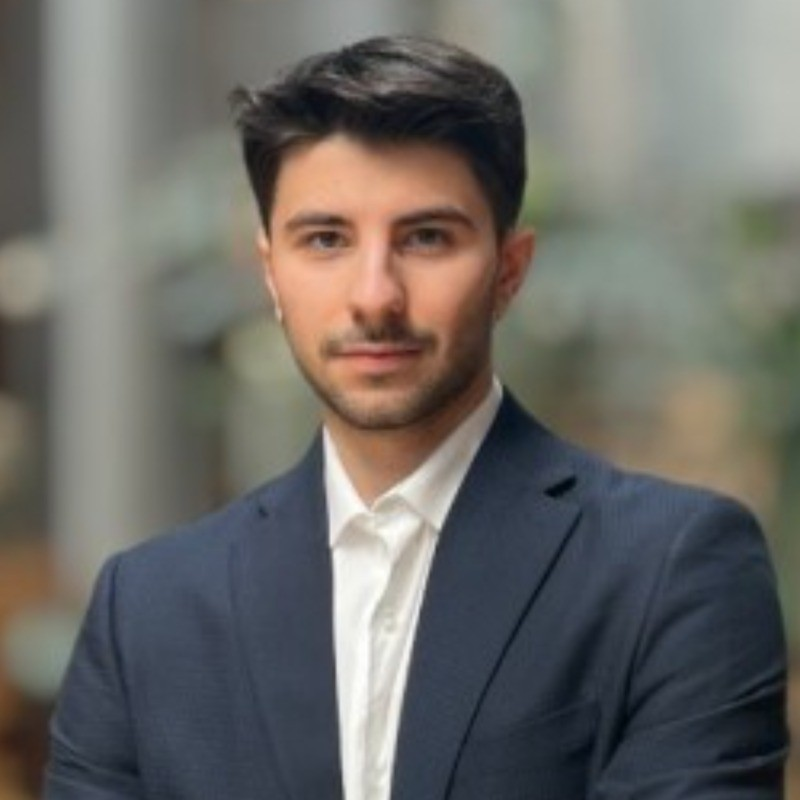
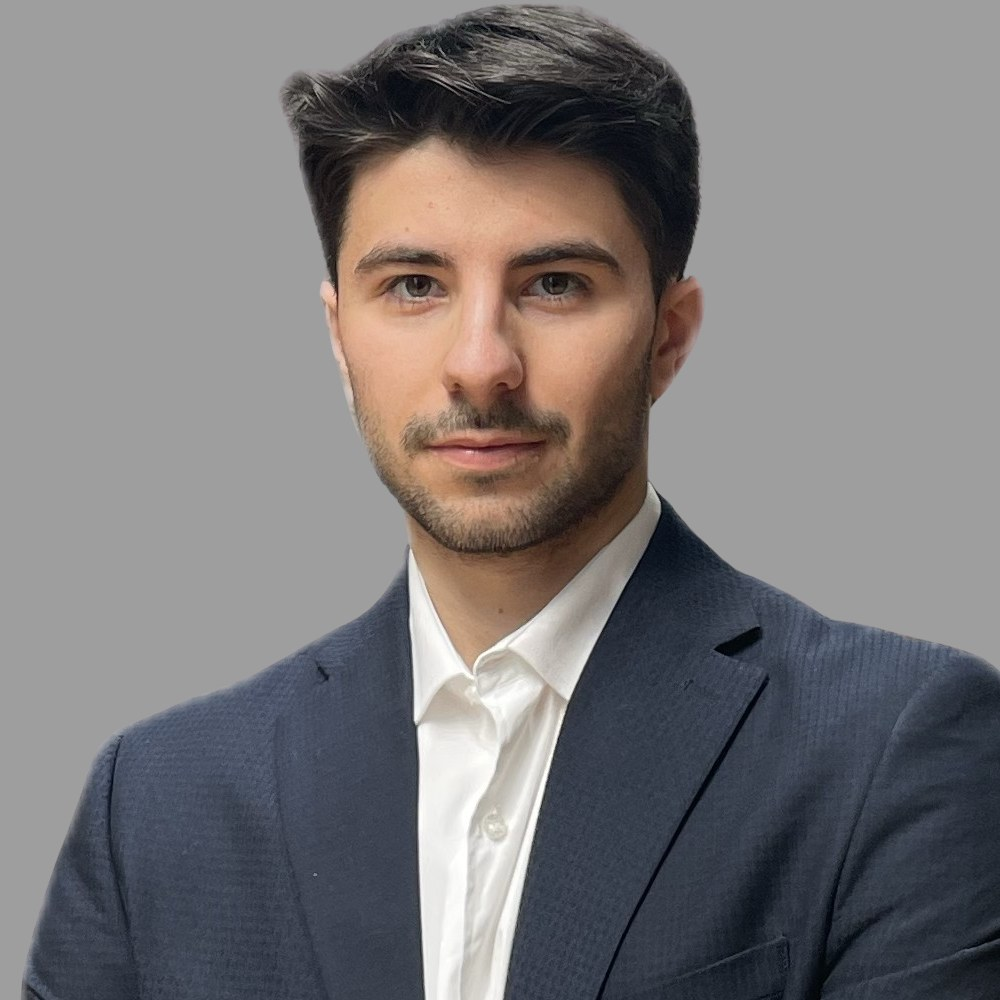
Sharper photos: high-res profile photo, ESA certificate from original, small CV images upscaled

diff --git a/cv.html b/cv.html
@@ -124,7 +124,7 @@
       <div class="hero-card">
         <div class="profile-ring">
           <div class="profile-inner">
-            <img src="assets/images/profile.jpg" alt="Valerio Santoni" class="profile-img" width="800" height="800"
+            <img src="assets/images/profile.jpg?v=2" alt="Valerio Santoni" class="profile-img" width="1000" height="1000"
                  onerror="this.style.display='none';this.nextElementSibling.style.display='flex'"/>
             <div class="profile-placeholder">VS</div>
           </div>
@@ -440,7 +440,7 @@
 
       <div class="hl-card fade-in">
         <div class="hl-img">
-          <img src="assets/images/china-swufe.jpeg" alt="SWUFE Global Academy Chengdu" loading="lazy"/>
+          <img src="assets/images/china-swufe.jpeg?v=2" alt="SWUFE Global Academy Chengdu" loading="lazy"/>
           <span class="hl-cat" data-i18n="hl.3.cat">International</span>
         </div>
         <div class="hl-body">
@@ -452,7 +452,7 @@
 
       <div class="hl-card fade-in">
         <div class="hl-img">
-          <img src="assets/images/microstrategy-project.jpeg" alt="MicroStrategy Kings League" loading="lazy"/>
+          <img src="assets/images/microstrategy-project.jpeg?v=2" alt="MicroStrategy Kings League" loading="lazy"/>
           <span class="hl-cat" data-i18n="hl.4.cat">BI Project</span>
         </div>
         <div class="hl-body">
@@ -464,7 +464,7 @@
 
       <div class="hl-card fade-in">
         <div class="hl-img">
-          <img src="assets/images/pm-app-project.jpeg" alt="University Library App" loading="lazy"/>
+          <img src="assets/images/pm-app-project.jpeg?v=2" alt="University Library App" loading="lazy"/>
           <span class="hl-cat" data-i18n="hl.5.cat">Project Management</span>
         </div>
         <div class="hl-body">
@@ -476,7 +476,7 @@
 
       <div class="hl-card fade-in">
         <div class="hl-img">
-          <img src="assets/images/big-data.jpeg" alt="Big Data Analysis Grammy Project" loading="lazy"/>
+          <img src="assets/images/big-data.jpeg?v=2" alt="Big Data Analysis Grammy Project" loading="lazy"/>
           <span class="hl-cat" data-i18n="hl.6.cat">Academic Project</span>
         </div>
         <div class="hl-body">
@@ -512,7 +512,7 @@
 
       <div class="hl-card fade-in">
         <div class="hl-img">
-          <img src="assets/images/contamination-lab.jpeg" alt="Contamination Lab Award" loading="lazy"/>
+          <img src="assets/images/contamination-lab.jpeg?v=2" alt="Contamination Lab Award" loading="lazy"/>
           <span class="hl-cat" data-i18n="hl.9.cat">Award</span>
         </div>
         <div class="hl-body">
@@ -524,7 +524,7 @@
 
       <div class="hl-card fade-in">
         <div class="hl-img">
-          <img src="assets/images/hackaton-smart-hack.jpeg" alt="Smart & Hack Hackathon" loading="lazy"/>
+          <img src="assets/images/hackaton-smart-hack.jpeg?v=2" alt="Smart & Hack Hackathon" loading="lazy"/>
           <span class="hl-cat" data-i18n="hl.10.cat">Hackathon</span>
         </div>
         <div class="hl-body">
@@ -708,7 +708,7 @@
       <h2 class="section-title" data-i18n="vol.title">Volunteering</h2>
     </div>
     <div class="vol-grid">
-      <div class="vol-card fade-in"><div class="vol-logo"><svg viewBox="0 0 24 24" width="22" height="22" fill="none" stroke="var(--red)" stroke-width="1.5" stroke-linecap="round" stroke-linejoin="round"><path d="M12 22s8-4 8-10V5l-8-3-8 3v7c0 6 8 10 8 10z"/></svg></div><div><div class="vol-title" data-i18n="vol.1.title">EU AI Act Panelist (ESA24)</div><div class="vol-org">European Universities Community · Feb–Apr 2024</div><div class="vol-desc" data-i18n="vol.1.desc">Policy recommendation on AI and employee rights protection</div><div class="cert-view" onclick="openCert('assets/certs/esa24.jpeg')"><svg viewBox="0 0 24 24" width="12" height="12" fill="none" stroke="currentColor" stroke-width="2"><path d="M1 12s4-8 11-8 11 8 11 8-4 8-11 8-11-8-11-8z"/><circle cx="12" cy="12" r="3"/></svg> View</div></div></div>
+      <div class="vol-card fade-in"><div class="vol-logo"><svg viewBox="0 0 24 24" width="22" height="22" fill="none" stroke="var(--red)" stroke-width="1.5" stroke-linecap="round" stroke-linejoin="round"><path d="M12 22s8-4 8-10V5l-8-3-8 3v7c0 6 8 10 8 10z"/></svg></div><div><div class="vol-title" data-i18n="vol.1.title">EU AI Act Panelist (ESA24)</div><div class="vol-org">European Universities Community · Feb–Apr 2024</div><div class="vol-desc" data-i18n="vol.1.desc">Policy recommendation on AI and employee rights protection</div><div class="cert-view" onclick="openCert('assets/certs/esa24.jpeg?v=2')"><svg viewBox="0 0 24 24" width="12" height="12" fill="none" stroke="currentColor" stroke-width="2"><path d="M1 12s4-8 11-8 11 8 11 8-4 8-11 8-11-8-11-8z"/><circle cx="12" cy="12" r="3"/></svg> View</div></div></div>
       <div class="vol-card fade-in"><div class="vol-logo"><svg viewBox="0 0 24 24" width="22" height="22" fill="none" stroke="#009FE3" stroke-width="1.5" stroke-linecap="round" stroke-linejoin="round"><circle cx="12" cy="12" r="10"/><line x1="2" y1="12" x2="22" y2="12"/><path d="M12 2a15.3 15.3 0 014 10 15.3 15.3 0 01-4 10 15.3 15.3 0 01-4-10 15.3 15.3 0 014-10z"/></svg></div><div><div class="vol-title" data-i18n="vol.2.title">Incoming Global Volunteer – Sales &amp; IR</div><div class="vol-org">AIESEC · Feb–Jul 2024</div><div class="vol-desc" data-i18n="vol.2.desc">SDGs-based collaboration with schools and NGOs</div></div></div>
       <div class="vol-card fade-in"><div class="vol-logo"><svg viewBox="0 0 24 24" width="22" height="22" fill="none" stroke="#DC2626" stroke-width="1.5" stroke-linecap="round" stroke-linejoin="round"><path d="M20.84 4.61a5.5 5.5 0 00-7.78 0L12 5.67l-1.06-1.06a5.5 5.5 0 00-7.78 7.78l1.06 1.06L12 21.23l7.78-7.78 1.06-1.06a5.5 5.5 0 000-7.78z"/></svg></div><div><div class="vol-title" data-i18n="vol.3.title">Blood Donor</div><div class="vol-org">Blutspende SRK Schweiz</div></div></div>
       <div class="vol-card fade-in"><div class="vol-logo"><svg viewBox="0 0 24 24" width="22" height="22" fill="none" stroke="var(--gold)" stroke-width="1.5" stroke-linecap="round" stroke-linejoin="round"><path d="M17 21v-2a4 4 0 00-4-4H5a4 4 0 00-4 4v2"/><circle cx="9" cy="7" r="4"/><path d="M23 21v-2a4 4 0 00-3-3.87"/><path d="M16 3.13a4 4 0 010 7.75"/></svg></div><div><div class="vol-title" data-i18n="vol.4.title">Support Associate</div><div class="vol-org">Unione Nazionale Pro Loco d'Italia · Jul 2018</div></div></div>

diff --git a/index.html b/index.html
@@ -114,7 +114,7 @@
       <div class="hero-visual">
         <div class="hv-frame">
           <div class="hv-photo">
-            <img src="assets/images/profile.jpg" alt="Valerio Santoni" width="800" height="800"/>
+            <img src="assets/images/profile-hero.jpg?v=1" alt="Valerio Santoni" width="1080" height="1350"/>
             <span class="hv-route"><span aria-hidden="true">🇮🇹 → 🇨🇭</span> <b data-i18n="chero.leap">Ho fatto il salto</b></span>
           </div>
           <a class="hv-guide" href="https://stan.store/valerioswiss" target="_blank" rel="noopener">

diff --git a/cv-compatto.html b/cv-compatto.html
@@ -482,7 +482,7 @@
     </div>
   </div>
   <div class="cv-photo">
-    <img src="assets/images/profile.jpg" alt="Valerio Santoni"
+    <img src="assets/images/profile.jpg?v=2" alt="Valerio Santoni"
          onerror="this.style.display='none';this.parentElement.innerHTML='<div class=cv-photo-placeholder>VS</div>'"/>
   </div>
 </div>
